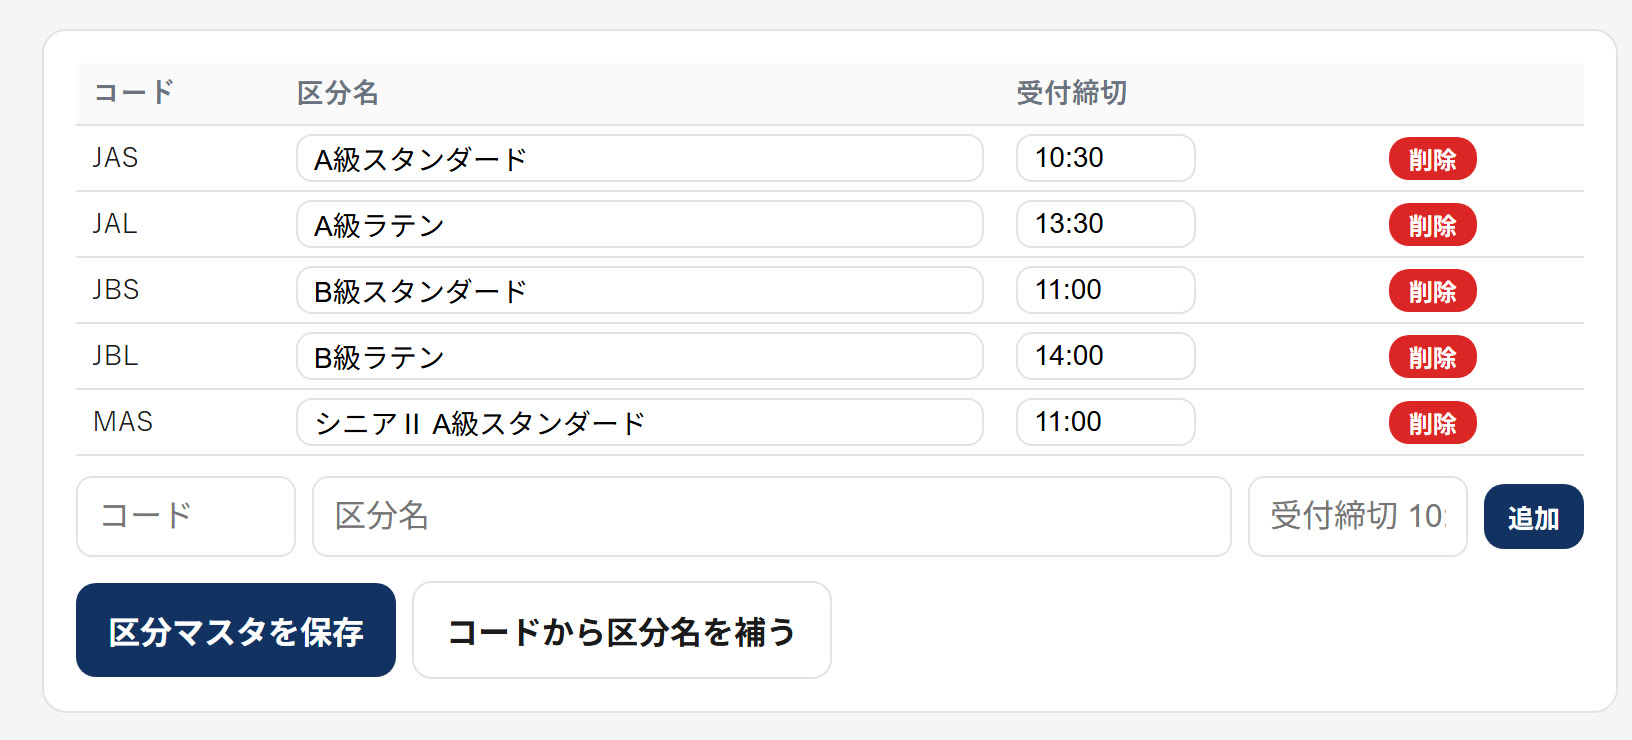
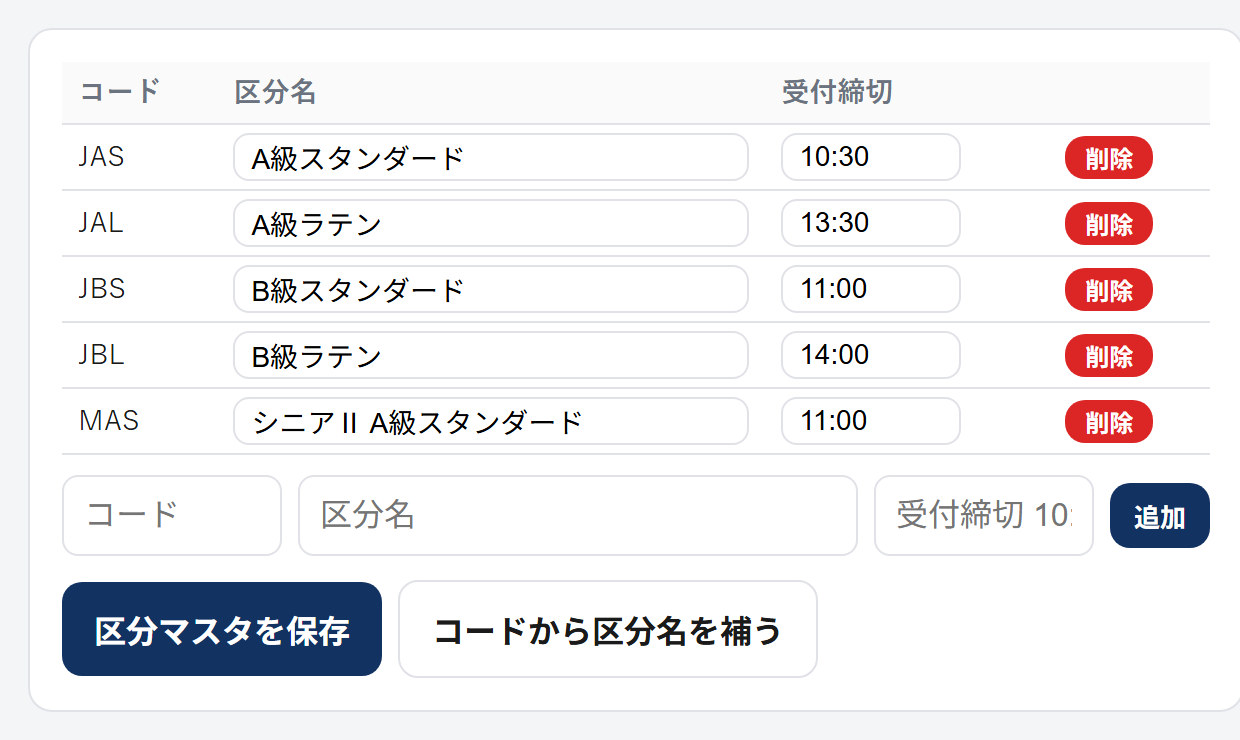
docs(uketsuke): マニュアルの画面写真を大きく見やすくする
画面写真を640px幅の画面から倍密度で撮り直し、説明している部分だけを
実測値で切り出した。マニュアル側も図を本文幅に縮めず、画面の幅いっぱい
（等倍）で並べるようにしたので、実画面の約2倍の大きさで読める。

diff --git a/uketsuke-manual.html b/uketsuke-manual.html
@@ -28,10 +28,13 @@
   li{margin:4px 0}
   .lead{font-size:15px;color:var(--muted)}
   .card{background:var(--card);border:1px solid var(--border);border-radius:12px;padding:16px 20px;margin:14px 0}
-  /* 画面写真は本文の幅より広く出す。ヘッダーとタブはそのままに、下の操作部分を大きく見せるため。 */
+  /* 画面写真は本文の幅を越えて、画面いっぱいに近い幅で出す。
+     写真は狭い幅（640px）の画面を倍密度で撮ってあるので、縮めずに並べると実画面の約2倍に見える。 */
   figure{margin:18px 0}
-  @media (min-width:1080px){ figure{margin-left:-90px;margin-right:-90px} }
-  @media (min-width:1320px){ figure{margin-left:-200px;margin-right:-200px} }
+  @media (min-width:1000px){
+    figure{width:calc(100vw - 40px);margin-left:calc(50% - 50vw + 20px);margin-right:0}
+    figcaption{text-align:center}
+  }
   figure img{display:block;width:auto;max-width:100%;height:auto;margin:0 auto;
     border:1px solid var(--border);border-radius:10px;background:#fff}
   figcaption{font-size:13px;color:var(--muted);margin-top:6px}
@@ -76,7 +79,8 @@
     h2{page-break-after:avoid;font-size:14pt;margin:18pt 0 6pt}
     h3{page-break-after:avoid;font-size:11.5pt}
     figure,table,.note,.warn,.ok,.card{page-break-inside:avoid}
-    figure{margin-left:0 !important;margin-right:0 !important}
+    figure{width:auto !important;margin-left:0 !important;margin-right:0 !important}
+    figcaption{text-align:left}
     figure img{border:1px solid #999;width:auto;max-width:100%}
     .video{display:none}
     section{page-break-before:always}
